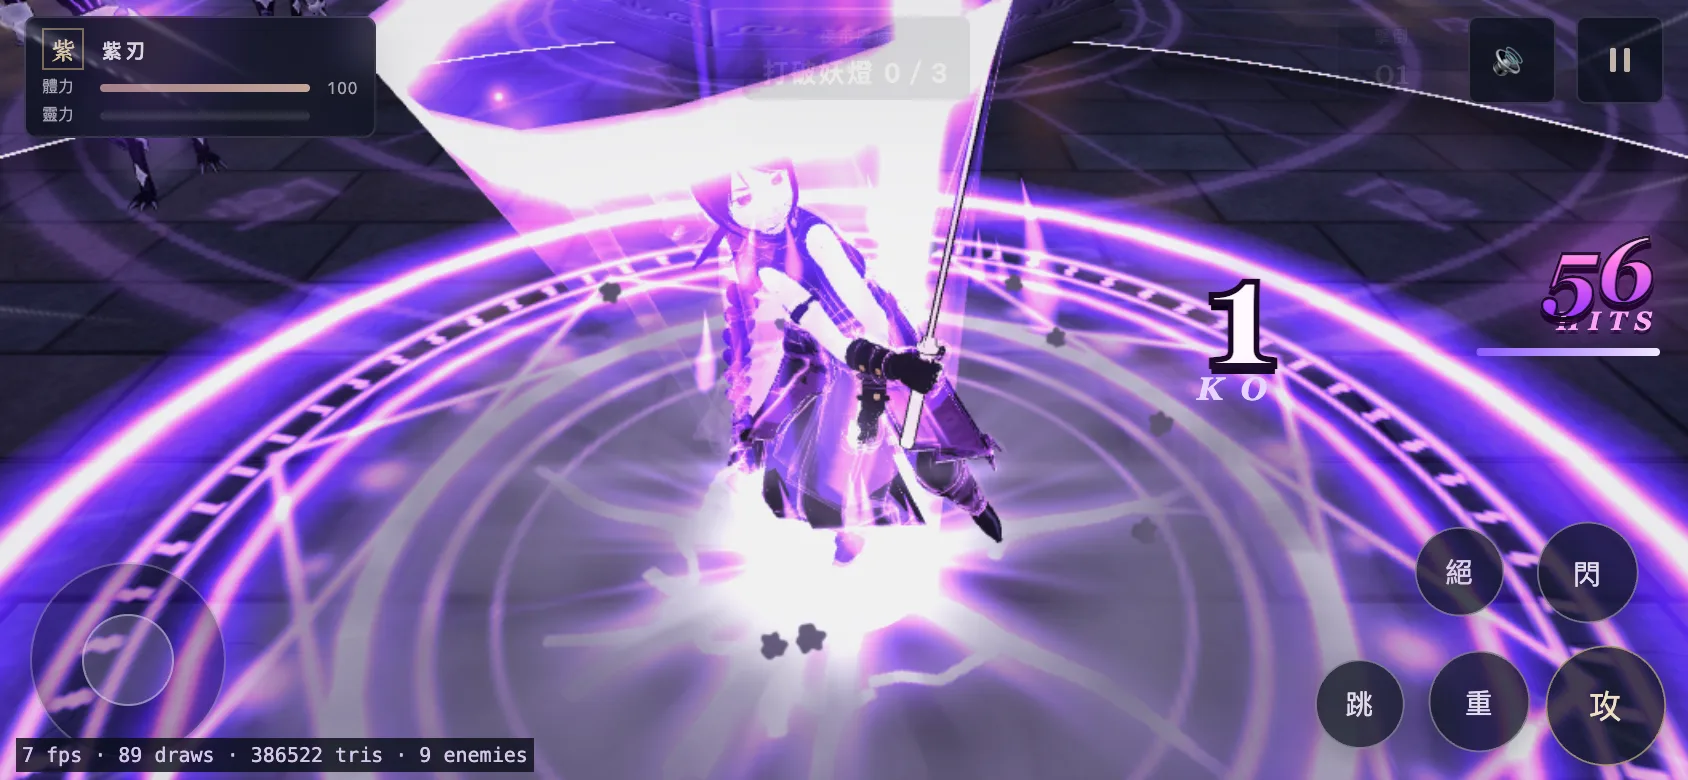
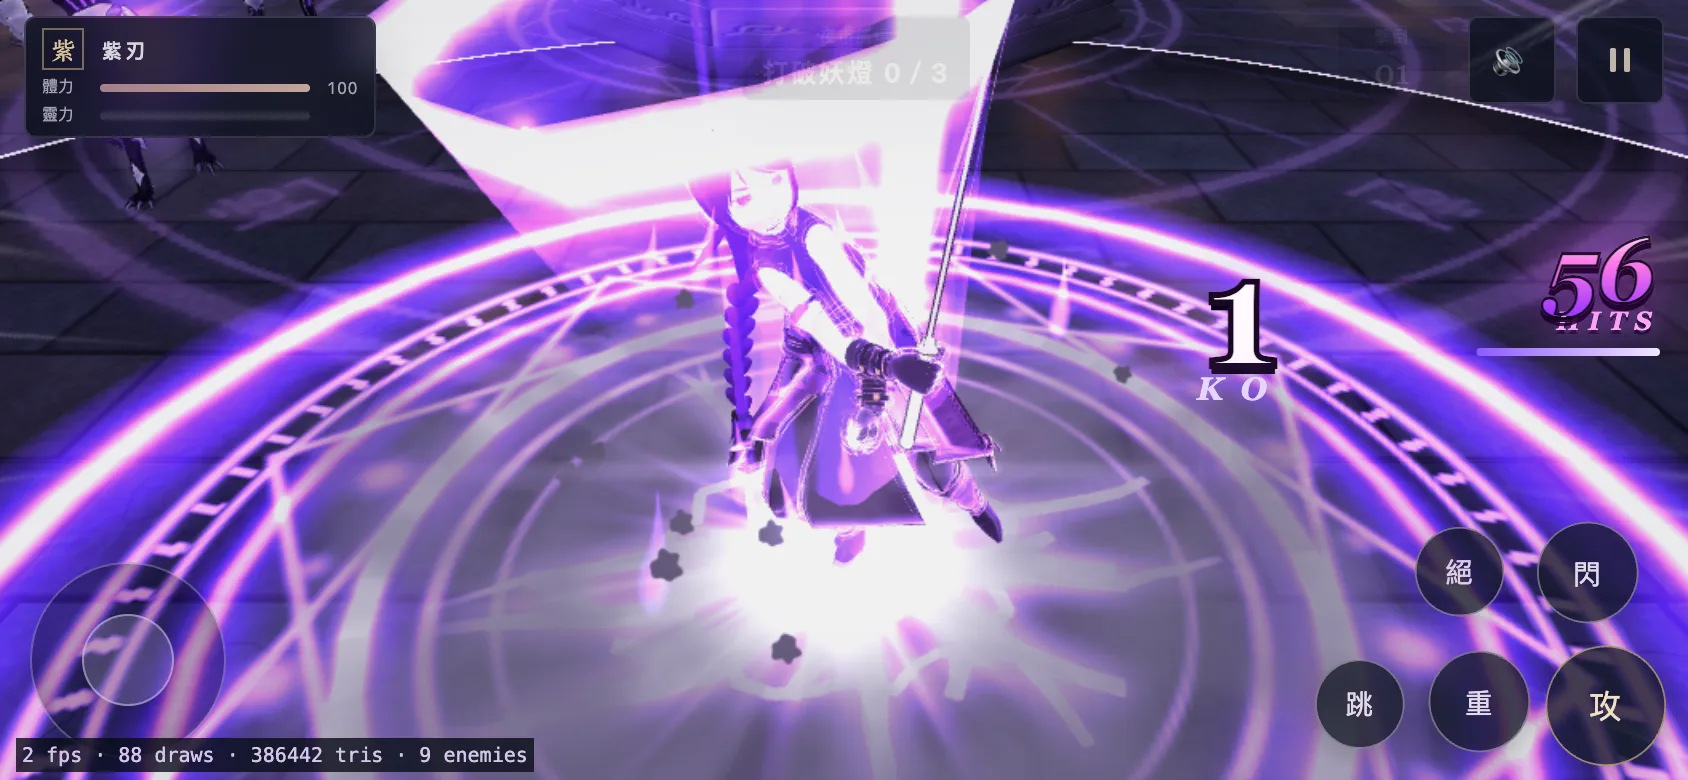
Fix musou enemy material restore, occlusion leak and close-up whiteout
- Hit-flash and enemy occlusion now share one record of each mesh's true
  material, so an enemy hit while faded no longer stays lit after the musou
- Occlusion clones are cached per source material and disposed; enemies
  removed mid-fade are restored and dropped instead of leaking every wave
- Mobile compiles the blade and flame shaders with 2 noise octaves (desktop 4)
- Finisher bursts shrink with camera distance, so the close leap/cleave
  shots keep the hero readable instead of going white
- Leap and cleave cameras follow the hero's lifted height
- Hide the screen split at once if the canvas resizes mid-split
- Bump combat-fx/battle/boot/fx-preview cache versions

Claude-Session: https://claude.ai/code/session_01BzdtAxZL62eJeMTYiQZJ8d

diff --git a/game/3d-next/combat-fx.js b/game/3d-next/combat-fx.js
@@ -91,11 +91,11 @@ export const DECAL_CELLS = { crack: 0, scorch: 1, rune: 2, burst: 3 };
 export const QUALITY = {
   desktop: {
     particles: 480, overlayParticles: 240, stripSlots: 22, stripCols: 48, ghosts: 3, aura: true, particleScale: 1,
-    damageNumbers: 14, trailSubdiv: 4, ghostHair: true, haptics: false, titleGrain: true,
+    damageNumbers: 14, trailSubdiv: 4, ghostHair: true, haptics: false, titleGrain: true, fbmOctaves: 4,
   },
   mobile: {
     particles: 210, overlayParticles: 110, stripSlots: 14, stripCols: 40, ghosts: 1, aura: true, particleScale: 0.55,
-    damageNumbers: 8, trailSubdiv: 3, ghostHair: false, haptics: true, titleGrain: true,
+    damageNumbers: 8, trailSubdiv: 3, ghostHair: false, haptics: true, titleGrain: true, fbmOctaves: 2,
   },
 };
 
@@ -356,7 +356,12 @@ void main() {
 // pass). Each is exactly one Mesh / one Material, created once in createCombatFx and only repositioned or hidden.
 // ---------------------------------------------------------------------------------------------
 
-const NOISE_GLSL = /* glsl */`
+// fbm octave count is baked in at compile time (once per material, via QUALITY.<tier>.fbmOctaves) rather than a
+// uniform/loop-bound variable, since mobile GPUs pay per-octave cost every pixel on two fairly large, always-visible
+// meshes during the musou finale; desktop keeps the full 4 octaves, mobile drops to 2 (fbm2 is still 2 calls in
+// FLAME_FRAGMENT, so this halves that shader's noise cost on mobile without changing its overall look).
+function noiseGLSL(octaves = 4) {
+  return /* glsl */`
 float hash21(vec2 p) { p = fract(p * vec2(123.34, 456.21)); p += dot(p, p + 45.32); return fract(p.x * p.y); }
 float vnoise(vec2 p) {
   vec2 i = floor(p), f = fract(p);
@@ -364,13 +369,15 @@ float vnoise(vec2 p) {
   vec2 u = f * f * (3.0 - 2.0 * f);
   return mix(a, b, u.x) + (c - a) * u.y * (1.0 - u.x) + (d - b) * u.x * u.y;
 }
-float fbm2(vec2 p) { float v = 0.0, a = 0.55; for (int i = 0; i < 4; i++) { v += a * vnoise(p); p *= 2.02; a *= 0.55; } return v; }`;
+float fbm2(vec2 p) { float v = 0.0, a = 0.55; for (int i = 0; i < ${octaves | 0}; i++) { v += a * vnoise(p); p *= 2.02; a *= 0.55; } return v; }`;
+}
 
 const BLADE_VERTEX = /* glsl */`
 varying vec2 vUv;
 void main() { vUv = uv; gl_Position = projectionMatrix * modelViewMatrix * vec4(position, 1.0); }`;
 
-const BLADE_FRAGMENT = /* glsl */`${NOISE_GLSL}
+function bladeFragment(octaves) {
+  return /* glsl */`${noiseGLSL(octaves)}
 uniform float uTime; uniform float uReveal; uniform float uOpacity; uniform vec3 uColor; uniform vec3 uEdge;
 varying vec2 vUv;
 void main() {
@@ -389,6 +396,7 @@ void main() {
   float alpha = clamp(silhouette * (0.5 + energy * 0.4) + coreLine * 1.15 + grow, 0.0, 1.0) * uOpacity;
   gl_FragColor = vec4(col * alpha, alpha);
 }`;
+}
 
 const FLAME_VERTEX = /* glsl */`
 attribute float aBlade;
@@ -402,7 +410,8 @@ void main() {
   gl_Position = projectionMatrix * viewMatrix * worldPos;
 }`;
 
-const FLAME_FRAGMENT = /* glsl */`${NOISE_GLSL}
+function flameFragment(octaves) {
+  return /* glsl */`${noiseGLSL(octaves)}
 uniform float uTime; uniform float uOpacity; uniform float uSeed; uniform vec3 uHot; uniform vec3 uCore; uniform vec3 uEdge;
 varying vec2 vUv;
 void main() {
@@ -421,6 +430,7 @@ void main() {
   float alpha = clamp(body * 1.5, 0.0, 1.0) * uOpacity;
   gl_FragColor = vec4(col * alpha, alpha);
 }`;
+}
 
 const SPLIT_VERTEX = /* glsl */`
 varying vec2 vUv;
@@ -889,14 +899,14 @@ function buildSpiritBladeGeometry(THREE, segments = 14) {
 // Real-world size of the spirit blade: ~6-7 m long (mesh.scale.y), ~0.72 m wide at the hilt (mesh.scale.x/z).
 const BLADE_WIDTH = 0.72;
 
-function createSpiritBlade(THREE) {
+function createSpiritBlade(THREE, octaves = 4) {
   const geometry = buildSpiritBladeGeometry(THREE);
   const material = new THREE.ShaderMaterial({
     uniforms: {
       uTime: { value: 0 }, uReveal: { value: 0 }, uOpacity: { value: 0 },
       uColor: { value: new THREE.Color(1.5, 0.9, 2.0) }, uEdge: { value: new THREE.Color(0.5, 0.15, 0.9) },
     },
-    vertexShader: BLADE_VERTEX, fragmentShader: BLADE_FRAGMENT,
+    vertexShader: BLADE_VERTEX, fragmentShader: bladeFragment(octaves),
     transparent: true, depthWrite: false, depthTest: true, toneMapped: false, fog: false, side: THREE.DoubleSide,
     blending: THREE.AdditiveBlending,
   });
@@ -949,14 +959,14 @@ function buildFlameGeometry(THREE) {
   return geometry;
 }
 
-function createFlameShroud(THREE) {
+function createFlameShroud(THREE, octaves = 4) {
   const geometry = buildFlameGeometry(THREE);
   const material = new THREE.ShaderMaterial({
     uniforms: {
       uTime: { value: 0 }, uOpacity: { value: 0 }, uSeed: { value: 0 }, uBladeMatrix: { value: new THREE.Matrix4() },
       uHot: { value: new THREE.Color(2.4, 1.6, 2.8) }, uCore: { value: new THREE.Color(1.7, 0.35, 1.9) }, uEdge: { value: new THREE.Color(0.35, 0.05, 0.55) },
     },
-    vertexShader: FLAME_VERTEX, fragmentShader: FLAME_FRAGMENT,
+    vertexShader: FLAME_VERTEX, fragmentShader: flameFragment(octaves),
     transparent: true, depthWrite: false, depthTest: true, toneMapped: false, fog: false, side: THREE.DoubleSide,
     blending: THREE.AdditiveBlending,
   });
@@ -1200,8 +1210,8 @@ export function createCombatFx(o) {
   const strips = createStripBatch(THREE, q.stripSlots, q.stripCols, stripTexture);
   scene.add(...particles.meshes, strips.mesh);
   // 天刃 (musou-v2): 4 pooled meshes, only ever toggled visible / repositioned during the long-form musou finale.
-  const spiritBlade = createSpiritBlade(THREE);
-  const flameShroud = createFlameShroud(THREE);
+  const spiritBlade = createSpiritBlade(THREE, q.fbmOctaves);
+  const flameShroud = createFlameShroud(THREE, q.fbmOctaves);
   const splitOverlay = createSplitOverlay(THREE);
   const shockwave = createShockwave(THREE);
   scene.add(spiritBlade.mesh, flameShroud.mesh, splitOverlay.mesh, shockwave.mesh);
@@ -1258,6 +1268,20 @@ export function createCombatFx(o) {
   const splitState = { pending: false, active: false, t: 0, dur: 0.25 };
   const shockState = { active: false, t: 0, dur: 0.55, x: 0, y: 0, z: 0, maxR: 4 };
   const hudState = { comboShown: -1, tier: -1, pulse: 0, pulseAmp: 0, fade: 0, bannerT: 9, stampPulse: 0, titleT: 9, hue: 0 };
+  // Shared canonical "true original" material per mesh (round 7 fix): hit-flash and enemy-occlusion both swap
+  // mesh.material, and previously each cached whatever it first read as "the original" independently -- if a hit
+  // landed the same frame an enemy entered occlusion, occlusion could capture the HOT flash clone as its "original",
+  // and the enemy stayed lit forever after the musou. ownedMaterials marks every clone either system creates;
+  // trueOriginalOf() only refreshes its cache from mesh.material when the mesh is NOT currently wearing one of our
+  // own clones, so whichever system reads it first (or after an external change, e.g. battle.js's officer tint)
+  // always gets the same real original, however the two systems interleave within a frame.
+  const trueOriginal = new WeakMap();
+  const ownedMaterials = new WeakSet();
+  function trueOriginalOf(mesh) {
+    const current = mesh.material;
+    if (!ownedMaterials.has(current)) trueOriginal.set(mesh, current);
+    return trueOriginal.get(mesh) ?? current;
+  }
   const flashes = [];                 // active enemy flash records
   const flashByRoot = new WeakMap();
   const flashCache = new Map();       // source material -> { hot, warm }
@@ -1343,6 +1367,7 @@ export function createCombatFx(o) {
       if (source.onBeforeCompile) m.onBeforeCompile = source.onBeforeCompile;
       if (Object.prototype.hasOwnProperty.call(source, 'customProgramCacheKey')) m.customProgramCacheKey = source.customProgramCacheKey;
       setup(m);
+      ownedMaterials.add(m);
       return m;
     };
     if (source.side === THREE.BackSide) {
@@ -1363,18 +1388,23 @@ export function createCombatFx(o) {
     if (!root) return;
     let rec = flashByRoot.get(root);
     if (!rec) {
-      rec = { root, meshes: [], originals: [], t: 0, hot: 0.05, total: 0.14, stage: 0, active: false };
-      root.traverse(object => { if (object.isMesh && object.material && !Array.isArray(object.material)) rec.meshes.push(object); });
-      rec.originals = rec.meshes.map(mesh => mesh.material);
+      rec = { root, meshes: [], t: 0, hot: 0.05, total: 0.14, stage: 0, active: false };
+      // seed trueOriginal right away, in case this is the very first time either system has ever touched this
+      // root -- at this exact point object.material is still whatever it genuinely was (this traversal itself
+      // hasn't swapped anything yet), so it's always safe to cache here regardless of who touches the root next.
+      root.traverse(object => { if (object.isMesh && object.material && !Array.isArray(object.material)) { rec.meshes.push(object); trueOriginalOf(object); } });
       flashByRoot.set(root, rec);
     }
-    if (!rec.active) {
-      // re-read originals in case battle.js swapped a material (e.g. officer tint) since last time
-      for (let i = 0; i < rec.meshes.length; i++) rec.originals[i] = rec.meshes[i].material;
-      rec.active = true;
-      flashes.push(rec);
-    }
+    if (!rec.active) { rec.active = true; flashes.push(rec); }
     rec.t = 0; rec.hot = weight < 0.8 ? 0 : 0.035 + 0.025 * weight; rec.total = 0.1 + 0.06 * weight; rec.stage = -1;
+  }
+  /** Applies whichever material mesh k of a flash record should currently show, honouring trueOriginalOf() so a
+   * flash starting the same frame an enemy enters occlusion (or vice versa) never captures the other effect's clone
+   * as "the original". */
+  function applyFlashMaterial(rec, k) {
+    const mesh = rec.meshes[k];
+    const original = trueOriginalOf(mesh);
+    mesh.material = rec.stage === 0 ? original : flashMaterials(original)[rec.stage === 1 ? 'hot' : 'warm'];
   }
   function updateFlashes(dt) {
     for (let i = flashes.length - 1; i >= 0; i--) {
@@ -1383,46 +1413,54 @@ export function createCombatFx(o) {
       const stage = rec.t < rec.hot ? 1 : rec.t < rec.total ? 2 : 0;
       if (stage !== rec.stage) {
         rec.stage = stage;
-        for (let k = 0; k < rec.meshes.length; k++) {
-          const original = rec.originals[k];
-          rec.meshes[k].material = stage === 0 ? original : flashMaterials(original)[stage === 1 ? 'hot' : 'warm'];
-        }
+        for (let k = 0; k < rec.meshes.length; k++) applyFlashMaterial(rec, k);
       }
       if (stage === 0) { rec.active = false; flashes.splice(i, 1); }
     }
   }
   function releaseFlashes() {
-    for (const rec of flashes) { for (let k = 0; k < rec.meshes.length; k++) rec.meshes[k].material = rec.originals[k]; rec.active = false; }
+    for (const rec of flashes) { rec.stage = 0; for (let k = 0; k < rec.meshes.length; k++) applyFlashMaterial(rec, k); rec.active = false; }
     flashes.length = 0;
   }
 
   // ---- enemy occlusion (dither-fade enemies between the camera and the hero during the musou cuts) ----
-  // Per-enemy-root material clones, created once the first time that root needs to fade (never per frame/hit);
-  // prewarm() precompiles the alphaHash program on a sample enemy so the first real fade has no hitch.
+  // Clones are cached per SOURCE material (like flashCache), not per enemy: most enemies of a role already share one
+  // material instance, so this both cuts clone count and lets dispose() free them all instead of leaking one set per
+  // enemy forever (occlusionByRoot is a WeakMap, but occlusionActive -- needed for restore-on-fade-out -- used to
+  // hold a strong ref to every root that ever mid-faded, which kept them un-GC-able if battle.js deleted the enemy
+  // before its fade finished). prewarm() precompiles the alphaHash program on a sample enemy so the first real fade
+  // has no hitch. If an enemy is both occluded and mid hit-flash, the flash wins the material for its brief window
+  // (see applyOcclusion) rather than the two fighting over mesh.material every frame.
+  const occlusionCache = new Map();   // source material -> dither clone (shared by every mesh using that material)
   const occlusionByRoot = new WeakMap();
   const occlusionActive = new Set();
   function occludeMaterial(source) {
-    const m = source.clone();
-    m.transparent = true;
-    m.alphaHash = true;
-    m.alphaTest = 0;
-    m.depthWrite = true;
-    m.opacity = 1;
-    if (source.onBeforeCompile) m.onBeforeCompile = source.onBeforeCompile;
-    return m;
+    let clone = occlusionCache.get(source);
+    if (clone) return clone;
+    clone = source.clone();
+    clone.transparent = true;
+    clone.alphaHash = true;
+    clone.alphaTest = 0;
+    clone.depthWrite = true;
+    clone.opacity = 1;
+    if (source.onBeforeCompile) clone.onBeforeCompile = source.onBeforeCompile;
+    ownedMaterials.add(clone);
+    occlusionCache.set(source, clone);
+    return clone;
   }
   function ensureOcclusion(root) {
     let rec = occlusionByRoot.get(root);
     if (rec) return rec;
-    rec = { meshes: [], originals: [], clones: [], alpha: 0 };
+    rec = { root, meshes: [], clones: [], alpha: 0 };
     root.traverse(object => {
       if (!object.isMesh || !object.material || Array.isArray(object.material)) return;
-      rec.meshes.push(object); rec.originals.push(object.material); rec.clones.push(occludeMaterial(object.material));
+      rec.meshes.push(object); rec.clones.push(occludeMaterial(trueOriginalOf(object)));
     });
     occlusionByRoot.set(root, rec);
     return rec;
   }
   function applyOcclusion(rec) {
+    if (flashByRoot.get(rec.root)?.active) return;   // let an active hit-flash keep the material this frame
     for (let i = 0; i < rec.meshes.length; i++) {
       const clone = rec.clones[i];
       clone.opacity = 1 - rec.alpha * 0.82;   // dither down toward ~18% density, never fully invisible (readable silhouette)
@@ -1430,12 +1468,25 @@ export function createCombatFx(o) {
     }
   }
   function restoreOcclusion(rec) {
-    for (let i = 0; i < rec.meshes.length; i++) if (rec.meshes[i].material !== rec.originals[i]) rec.meshes[i].material = rec.originals[i];
+    for (let i = 0; i < rec.meshes.length; i++) {
+      const original = trueOriginalOf(rec.meshes[i]);
+      if (rec.meshes[i].material !== original) rec.meshes[i].material = original;
+    }
   }
   const occCam = new THREE.Vector3(), occDir = new THREE.Vector3(), occAt = new THREE.Vector3(), occTo = new THREE.Vector3();
   const occHeroChest = new THREE.Vector3(), occHeroNdc = new THREE.Vector3(), occAtNdc = new THREE.Vector3();
+  const occLiveRoots = new Set();
   const OCC_HERO_RADIUS = 0.55, OCC_ENEMY_RADIUS = 0.55, OCC_NEAR_CAM = 2.5;
   function updateOcclusion(dt, enemiesMap) {
+    // sweep stale recs first: battle.js deletes a killed rigged enemy from the map immediately, which could
+    // previously leave its rec (and clones) stuck in occlusionActive -- and un-GC-able -- forever mid-fade.
+    if (occlusionActive.size) {
+      occLiveRoots.clear();
+      if (enemiesMap) for (const actor of enemiesMap.values()) if (actor?.root) occLiveRoots.add(actor.root);
+      for (const rec of occlusionActive) {
+        if (!occLiveRoots.has(rec.root)) { restoreOcclusion(rec); occlusionActive.delete(rec); occlusionByRoot.delete(rec.root); }
+      }
+    }
     if (!enemiesMap || !enemiesMap.size) return;
     camera.getWorldPosition(occCam);
     camera.getWorldDirection(occDir);
@@ -1929,8 +1980,14 @@ export function createCombatFx(o) {
     // covers her ambient fire, and this burst's long life used to sit on screen for seconds under the finisher's
     // slow-mo, reading as stray pink teardrops in the 07/08 shots.)
     // lifetimes are game time: under the 0.3x / 0.15x finisher they already last 0.3-0.6 s on screen
-    particles.emit(STYLE.impact, x, y + 1.0, z, 0, 0, 0, 0.09, 1.6, 3.2, 2.4, 2.0, 2.8, 1, rnd(0, 6.28), 0);
-    particles.emit(STYLE.flare, x, y + 1.1, z, 0, 0, 0, 0.1, 1.8, 3.6, 2.2, 1.9, 2.8, 0.7, 0, 0);
+    // (round 7) these two bursts' fixed world-space size read as a near-total screen whiteout at the close leap/
+    // cut3 camera framing; scale size (and, with a floor, alpha) by camera distance so they keep roughly the same
+    // on-screen coverage regardless of how close the finale's cuts have gotten. 7 m ~= the far camera distance
+    // these sizes were originally tuned against.
+    camera.getWorldPosition(tmp3);
+    const burstScale = THREE.MathUtils.clamp(tmp3.distanceTo(tmp.set(x, y + 1.0, z)) / 10, 0.3, 1);
+    particles.emit(STYLE.impact, x, y + 1.0, z, 0, 0, 0, 0.09, 1.6 * burstScale, 3.2 * burstScale, 2.4, 2.0, 2.8, Math.max(0.45, burstScale), rnd(0, 6.28), 0);
+    particles.emit(STYLE.flare, x, y + 1.1, z, 0, 0, 0, 0.1, 1.8 * burstScale, 3.6 * burstScale, 2.2, 1.9, 2.8, 0.7 * Math.max(0.45, burstScale), 0, 0);
     cam.calm = false;
     fovPunch(-10, 0.6);
     speedLines(0.65, 1);
@@ -2081,9 +2138,14 @@ export function createCombatFx(o) {
   /** Post-cleave screen split (framebuffer already captured in cameraPost) and the ground shockwave ring. */
   function updateSplitShock(realDt) {
     if (splitState.active) {
+      // canvas resized mid-split (e.g. an orientation change) -- the framebuffer was captured at the old
+      // size/aspect, so it would render as a stretched/misaligned mess at the new one; end the effect right away
+      // instead of showing that for the rest of its (brief) duration.
+      const cw = renderer?.domElement?.width || 0, ch = renderer?.domElement?.height || 0;
+      const resized = (cw && cw !== splitOverlay.texW) || (ch && ch !== splitOverlay.texH);
       splitState.t += realDt;
       const p = splitState.t / splitState.dur;
-      if (p >= 1 || !splitOverlay.texture) { splitState.active = false; splitOverlay.mesh.visible = false; }
+      if (resized || p >= 1 || !splitOverlay.texture) { splitState.active = false; splitOverlay.mesh.visible = false; }
       else {
         splitOverlay.mesh.visible = true;
         splitOverlay.material.uniforms.uSep.value = 0.035 + 0.11 * easeOut(Math.min(1, p / 0.6));
@@ -2777,6 +2839,8 @@ export function createCombatFx(o) {
     for (const texture of owned) texture.dispose();
     for (const entry of flashCache.values()) { entry.hot.dispose(); entry.warm.dispose(); }
     flashCache.clear();
+    for (const clone of occlusionCache.values()) clone.dispose();
+    occlusionCache.clear();
     if (swordOriginal && o.sword) { o.sword.material = swordOriginal; swordMaterial.dispose(); }
     hudObserver?.disconnect();
     hud?.el.layer.remove();
@@ -2812,6 +2876,9 @@ export function createCombatFx(o) {
     /** Diagnostics for the musou-v2 screenshot driver: precise long-form phase (spirit.phase can only be read here,
      * not inferred from game time, since sweep beats are a short real-time window inside the swing timeline). */
     debugMusou: () => ({ active: musou.active, longForm: musou.longForm, isTrue: musou.isTrue, cut: musou.cut, spiritPhase: spirit.phase, leapAt: musou.leapAt, g: musou.g, t: musou.t }),
+    /** Diagnostics for the occlusion leak/dispose tests: how many recs are mid-fade right now, and how many
+     * distinct dither clones exist (shared per source material, so this shouldn't grow with enemy count). */
+    debugOcclusion: () => ({ activeCount: occlusionActive.size, cacheSize: occlusionCache.size }),
     objects: [...particles.meshes, strips.mesh, ...echoes.ghosts.map(g => g.mesh), echoes.aura, spiritBlade.mesh, flameShroud.mesh, splitOverlay.mesh, shockwave.mesh].filter(Boolean),
     quality: q,
   };

diff --git a/game/3d-next/boot.js b/game/3d-next/boot.js
@@ -37,7 +37,7 @@ const assets = createPreloader({
   plan: assetPlan({ hero: vroid ? 'vroid' : 'rumi', march: vroid && params.get('level') !== 'single' }),
   loadEngine: () => loadBattleModule().then(async module => { await module.loadLazyModules(); return module; }),
 });
-const loadBattleModule = () => import('./battle.js?v=20260925g');
+const loadBattleModule = () => import('./battle.js?v=20260925h');
 if (params.has('debug')) window.__assets = assets;   // ?debug：各項下載／步驟的開始與完成時間（__assets.progress.items）
 let audio = null;
 const audioReady = vroid
@@ -77,7 +77,7 @@ let battlePromise = null, battleReady = false, prefetching = false;
 // battle.js 的 import 圖：一次全部送出請求，不用等 battle.js 下載完才發現要抓 three.js（版本字串與 battle.js 相同，測試會比對）
 const ENGINE_MODULES = ['../lib/three.module.js', '../lib/addons/loaders/GLTFLoader.js', '../lib/addons/utils/SkeletonUtils.js',
   '../2d/combat.js', '../frame-pacing.js', './world.js', './oni.js', './touch-input.js',
-  ...(vroid ? ['./combat-fx.js?v=20260925g'] : []), ...(vroid && params.get('level') !== 'single' ? ['./march.js', './march-art.js?v=20260925f'] : [])];
+  ...(vroid ? ['./combat-fx.js?v=20260925h'] : []), ...(vroid && params.get('level') !== 'single' ? ['./march.js', './march-art.js?v=20260925f'] : [])];
 function preloadModules() {
   for (const href of ENGINE_MODULES) {
     const link = document.createElement('link');

diff --git a/game/index.html b/game/index.html
@@ -155,7 +155,7 @@
     <div class="title-rule"><span></span><small>NEON EXORCIST UNIT</small></div>
     <p class="title-lead">紫刃・夜市突圍：沿夜市大街一路殺到鬼門。</p>
     <p class="title-copy">3D 無雙動作版：五連斬、跳劈、無雙亂舞。<br>打破妖燈、擊倒敵將，最後單挑鬼門守將。</p>
-    <div class="title-mode-actions"><a class="btn" id="new3d" href="./3d-next/?v=20260925g"><span>3D 無雙版 開始</span><b>PLAY　↗</b></a></div>
+    <div class="title-mode-actions"><a class="btn" id="new3d" href="./3d-next/?v=20260925h"><span>3D 無雙版 開始</span><b>PLAY　↗</b></a></div>
     <details class="legacy-entry"><summary>舊版：精緻 2.5D・舊 3D 四關</summary><a class="btn" id="new2d" href="./2d/?view=warrior&amp;v=20260924h"><span>精緻 2.5D</span><b>PLAY　↗</b></a><button class="btn" id="startBtn"><span>舊 3D 四關</span><b>ARCHIVE　↗</b></button></details>
     <div id="loadtext" role="status" aria-live="polite">選擇版本開始遊戲</div>
     <p class="license">音樂：Matthew Pablo・jobro・Tomasz Kucza（CC-BY）／Cleyton Kauffman・nene（CC0）via OpenGameArt</p>

diff --git a/game/3d-next/battle.js b/game/3d-next/battle.js
@@ -37,7 +37,7 @@ export function loadLazyModules() {
     lazyModules = Promise.all([
       marchLevel ? Promise.all([import('./march.js'), import('./march-art.js?v=20260925f')]) : null,
       // ?hero=vroid：打擊特效模組（combat-fx.js）；載入失敗時退回下方原本的特效與時間倍率
-      heroChoice === 'vroid' ? import('./combat-fx.js?v=20260925g').catch(error => { console.warn('combat-fx failed, using built-in effects', error); return null; }) : null,
+      heroChoice === 'vroid' ? import('./combat-fx.js?v=20260925h').catch(error => { console.warn('combat-fx failed, using built-in effects', error); return null; }) : null,
     ]).catch(error => { lazyModules = null; throw error; });
   }
   return lazyModules;

diff --git a/game/3d-next/index.html b/game/3d-next/index.html
@@ -84,6 +84,6 @@
     <footer id="help" class="help-bar"><span class="desktop-help"><b>移動</b> WASD / ↑↓←→ <i></i> <b>攻擊</b> J <i></i> <b>重擊</b> K <i></i> <b>閃避</b> Shift <i></i> <b>絕招</b> E <i></i> <span data-jump-help hidden><b>跳躍</b> Space <i></i></span> <b>暫停</b> P</span><span class="touch-help">左側移動　·　右側攻擊</span><span class="silent-note" id="soundState">靜音試作</span></footer>
     <div id="diagnostics"></div>
   </main>
-  <script type="module" src="./boot.js?v=20260925i"></script>
+  <script type="module" src="./boot.js?v=20260925j"></script>
 </body>
 </html>

diff --git a/game/3d-next/fx-preview.html b/game/3d-next/fx-preview.html
@@ -27,6 +27,6 @@
     J 攻 · K 重 · E 無雙 · L 閃 · Space 暫停自動 · C 切鏡頭 · F 切特效（新／舊／關） · Q 切畫質<br>
     參數 ?fx=new|legacy|off &amp; quality=desktop|mobile &amp; cam=fixed|follow|close &amp; enemies=10 &amp; true=1（真・無雙）&amp; flurry=1（長無雙）&amp; capture=1
   </div>
-  <script type="module" src="./fx-preview.js?v=20260925g"></script>
+  <script type="module" src="./fx-preview.js?v=20260925h"></script>
 </body>
 </html>

diff --git a/game/3d-next/fx-preview.js b/game/3d-next/fx-preview.js
@@ -10,7 +10,7 @@ import { clone as cloneSkinned } from 'three/addons/utils/SkeletonUtils.js';
 import { Arena } from '../2d/combat.js';
 import { createNightMarket } from './world.js';
 import { prepareRiggedOni, createRiggedOni } from './oni.js';
-import { createCombatFx } from './combat-fx.js?v=20260925g';
+import { createCombatFx } from './combat-fx.js?v=20260925h';
 
 const params = new URLSearchParams(location.search);
 const $ = id => document.getElementById(id);
